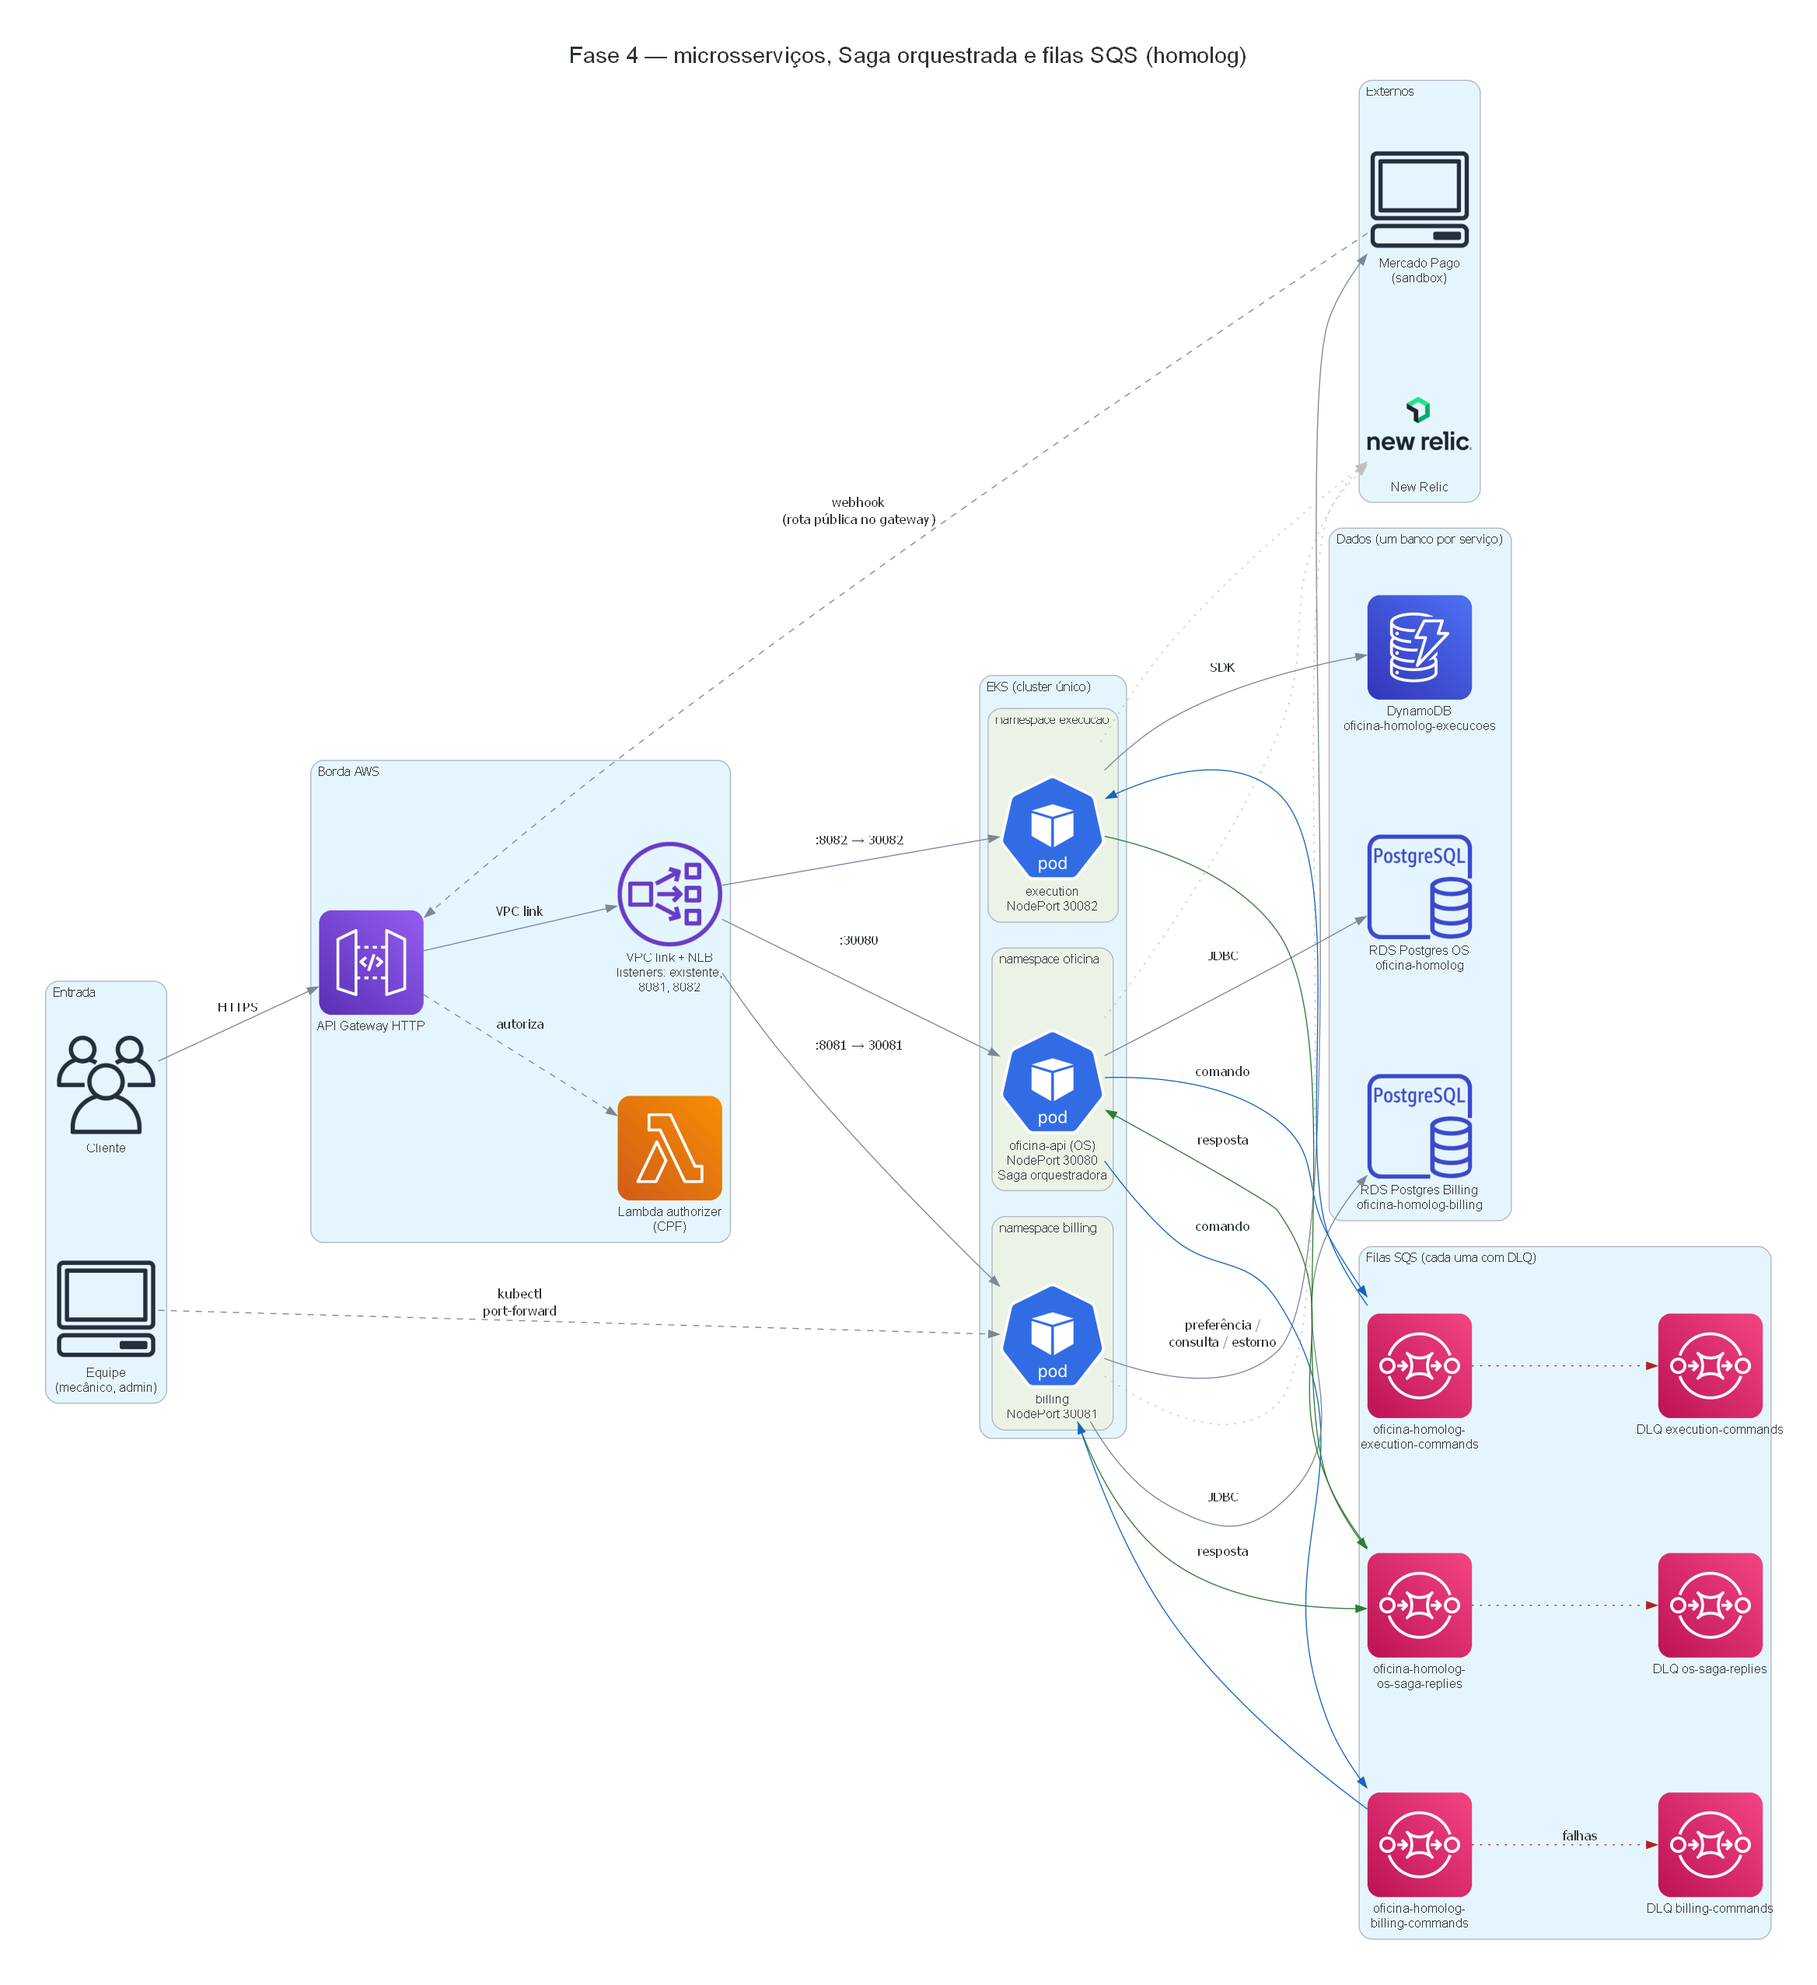
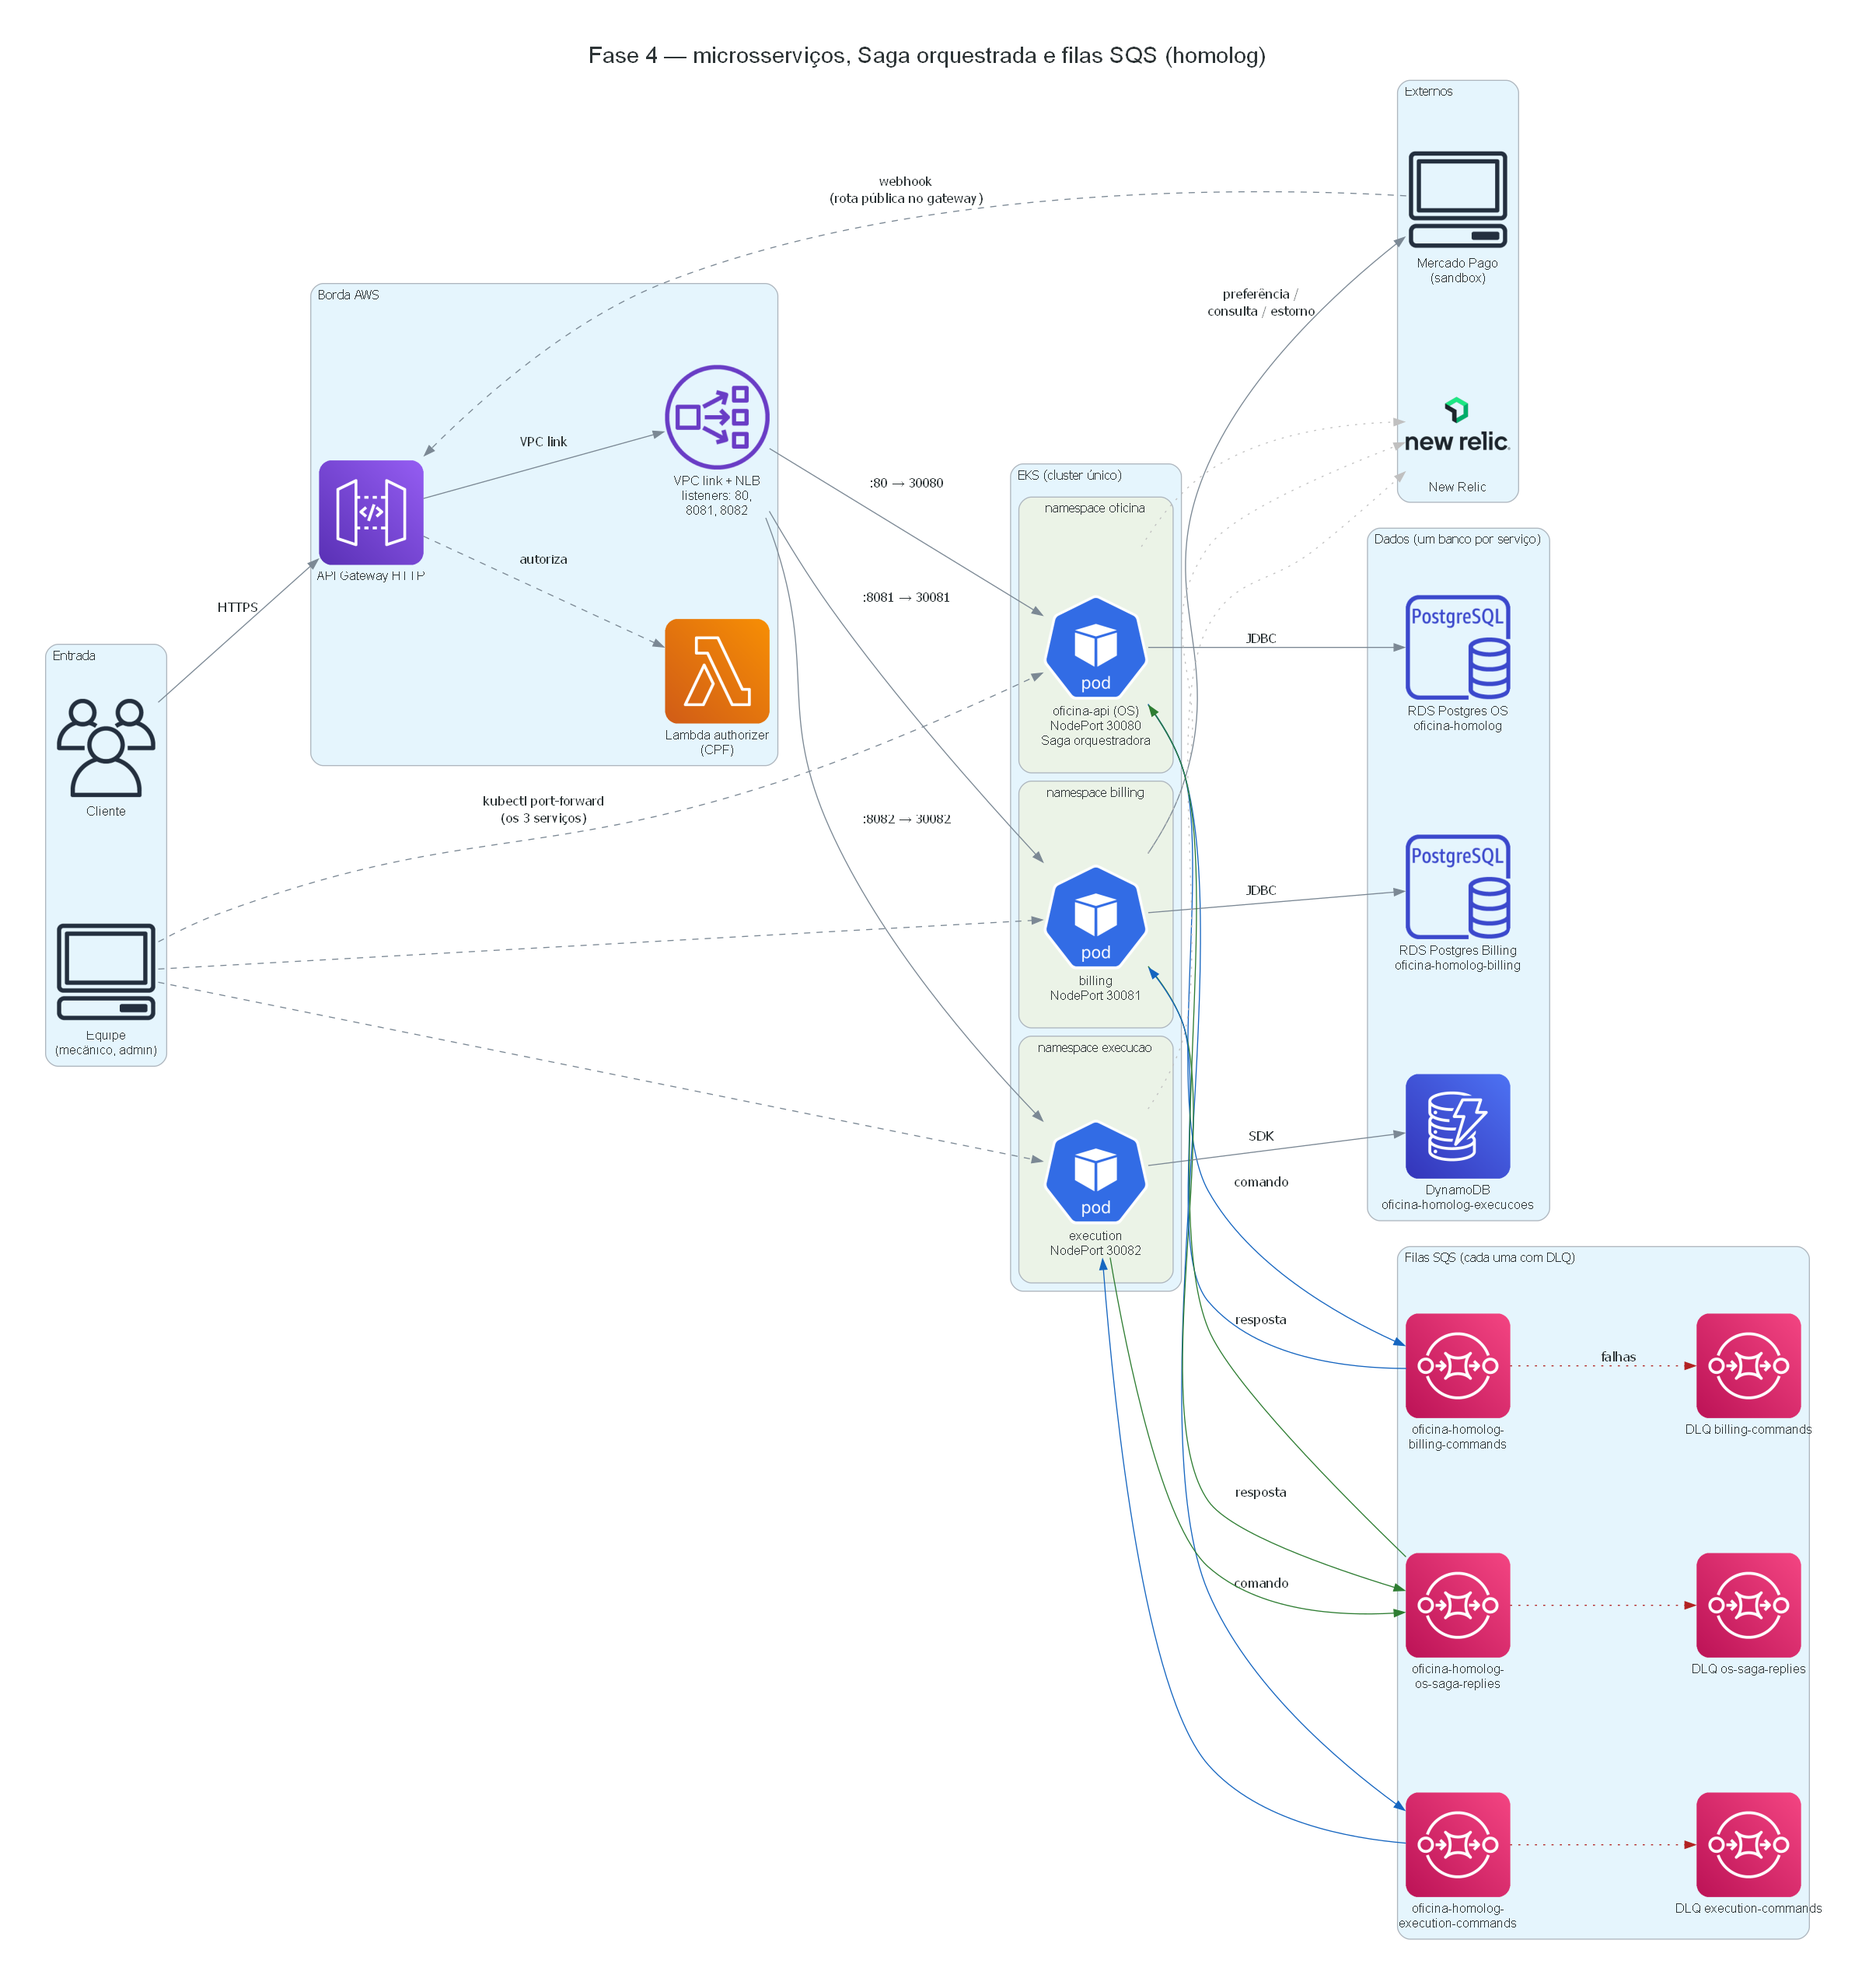
docs: corrige roteiro e diagrama da Fase 4 (revisao)

diff --git a/docs/arquitetura/diagramas/fase4_arquitetura.py b/docs/arquitetura/diagramas/fase4_arquitetura.py
@@ -50,18 +50,18 @@ with Diagram(
     with Cluster("Borda AWS"):
         gateway = APIGateway("API Gateway HTTP")
         authorizer = Lambda("Lambda authorizer\n(CPF)")
-        nlb = NLB("VPC link + NLB\nlisteners: existente,\n8081, 8082")
+        nlb = NLB("VPC link + NLB\nlisteners: 80,\n8081, 8082")
 
     with Cluster("Externos"):
         mp = Client("Mercado Pago\n(sandbox)")
         newrelic = NewRelic("New Relic")
 
     with Cluster("EKS (cluster único)"):
-        with Cluster("namespace oficina"):
+        with Cluster("namespace oficina", graph_attr={"margin": "24", "labeljust": "c"}):
             os_svc = Pod("oficina-api (OS)\nNodePort 30080\nSaga orquestradora")
-        with Cluster("namespace billing"):
+        with Cluster("namespace billing", graph_attr={"margin": "24", "labeljust": "c"}):
             billing = Pod("billing\nNodePort 30081")
-        with Cluster("namespace execucao"):
+        with Cluster("namespace execucao", graph_attr={"margin": "24", "labeljust": "c"}):
             execucao = Pod("execution\nNodePort 30082")
 
     with Cluster("Filas SQS (cada uma com DLQ)"):
@@ -81,10 +81,13 @@ with Diagram(
     cliente >> Edge(label="HTTPS") >> gateway
     gateway >> Edge(style="dashed", label="autoriza") >> authorizer
     gateway >> Edge(label="VPC link") >> nlb
-    nlb >> Edge(label=":30080") >> os_svc
+    nlb >> Edge(label=":80 → 30080") >> os_svc
     nlb >> Edge(label=":8081 → 30081") >> billing
     nlb >> Edge(label=":8082 → 30082") >> execucao
-    equipe >> Edge(style="dashed", label="kubectl\nport-forward") >> billing
+    pf = "kubectl port-forward\n(os 3 serviços)"
+    equipe >> Edge(style="dashed", label=pf) >> os_svc
+    equipe >> Edge(style="dashed") >> billing
+    equipe >> Edge(style="dashed") >> execucao
 
     # Saga
     os_svc >> Edge(color=CMD, label="comando") >> q_bill >> Edge(color=CMD) >> billing

diff --git a/docs/operacao/roteiro-video-fase4.md b/docs/operacao/roteiro-video-fase4.md
@@ -21,7 +21,10 @@ Não há folga. No ensaio, use o plano de corte no fim.
 - [ ] `kubectl get pods -A` mostra os pods de `oficina`, `billing` e `execucao` em `Running`.
 - [ ] `kubectl` aponta para o cluster de homolog. `jq` está instalado.
 - [ ] Mercado Pago em sandbox. Comprador de teste pronto.
-- [ ] Flag `simulacao-falha` desligada. Confira por port-forward em `GET /api/execucao/admin/simulacao-falha`.
+- [ ] Flag `simulacao-falha` desligada. Envie por port-forward `PUT /api/execucao/admin/simulacao-falha {"ativa":false}`. Não existe `GET` para ela.
+- [ ] `SONAR_TOKEN` e `vars.SONAR_ORGANIZATION` definidos. A organização no SonarCloud existe (passo manual).
+- [ ] `NVD_API_KEY` definido, para o job OWASP.
+- [ ] `main` protegida em todos os repositórios (rulesets existem).
 - [ ] Filas e DLQs vazias. Nenhuma saga presa.
 - [ ] `./scripts/demo-saga.sh feliz` rodou uma vez antes, sem erro.
 - [ ] New Relic aberto em três abas: trace distribuído, dashboard da saga, busca de logs.
@@ -49,7 +52,7 @@ Não há folga. No ensaio, use o plano de corte no fim.
 - O pagamento acontece na aprovação, antes da execução. Billing fala com o Mercado Pago.
 - O New Relic recebe métricas, logs e traces dos três serviços.
 
-**Se falhar:** se a imagem não abrir, use o diagrama do `README.md`. Fale o mesmo texto.
+**Se falhar:** se a imagem não abrir, use o arquivo `docs/arquitetura/fase4-arquitetura.png` direto do repositório. Fale o mesmo texto.
 
 ## Bloco 2 — `demo-saga.sh feliz` com status ao vivo (3:00)
 
@@ -79,7 +82,7 @@ Ele mostra o status da OS e o estado da saga a cada passo.
 
 - Se o port-forward cair, rode o script de novo. Ele recria os túneis.
 - Se o webhook demorar, mostre o link de pagamento. Diga que o sandbox atrasa. Rode o script outra vez.
-- Se a saga travar, mostre o estado com `GET /api/ordens-servico/{id}` e use a gravação do ensaio.
+- Se a saga travar, mostre o estado com `GET /api/ordens-servico/{id}/saga` e use a gravação do ensaio.
 
 ## Bloco 3 — `demo-saga.sh falha-execucao` e compensação (3:00)
 
@@ -121,7 +124,7 @@ Ele roda o fluxo até o pagamento. Execution rejeita o trabalho. No fim, o scrip
 gh pr checks <numero> --repo <org>/<repo-billing> --watch
 gh pr merge <numero> --repo <org>/<repo-billing> --squash
 gh run watch --repo <org>/<repo-billing>
-kubectl -n billing rollout status deploy/billing
+kubectl -n billing rollout status deploy/billing-service
 kubectl -n billing get pods
 ```
 
@@ -130,7 +133,7 @@ Troque `<org>`, `<repo-billing>` e `<numero>` antes de gravar.
 **Falar:**
 
 - A `main` tem proteção. O PR exige CI e Sonar verdes.
-- O CI roda build, testes unitários e de integração, cobertura JaCoCo e OWASP.
+- O CI roda build, testes unitários e de integração, cobertura JaCoCo e Sonar. O OWASP dependency-check roda num job separado, que não é obrigatório.
 - Mostre o gate do SonarCloud aprovado. Cite a cobertura.
 - Mostre que o botão de merge só libera com os checks verdes.
 - Faça o merge. O CD começa sozinho.
@@ -154,9 +157,9 @@ Troque `<org>`, `<repo-billing>` e `<numero>` antes de gravar.
 
 - Abra o trace distribuído. Ele cruza OS, SQS, Billing e Execution.
 - O cabeçalho `newrelic` viaja nos atributos da mensagem. Por isso o trace não quebra na fila.
-- Abra o dashboard da saga: sagas por estado, taxa de compensação, tempo por passo e profundidade das DLQs.
+- Abra o dashboard da saga: "Sagas ativas por estado", "Sagas finalizadas por hora e resultado" (mostra as compensadas), "Mensagens por DLQ" e "Spans por servico".
 - Um alerta vigia a profundidade das DLQs.
-- Abra os logs. Filtre por `sagaId`. Os três serviços aparecem na mesma busca.
+- Abra o painel "Logs com sagaId". Filtre por `sagaId`. Os três serviços aparecem na mesma busca.
 - Os logs são JSON. Cada linha tem `correlationId` e `sagaId`.
 
 **Se falhar:**
